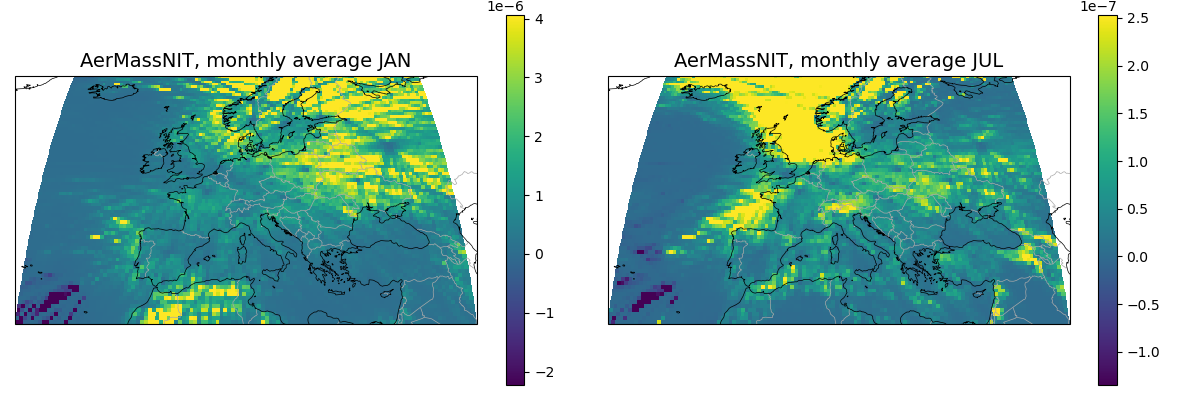
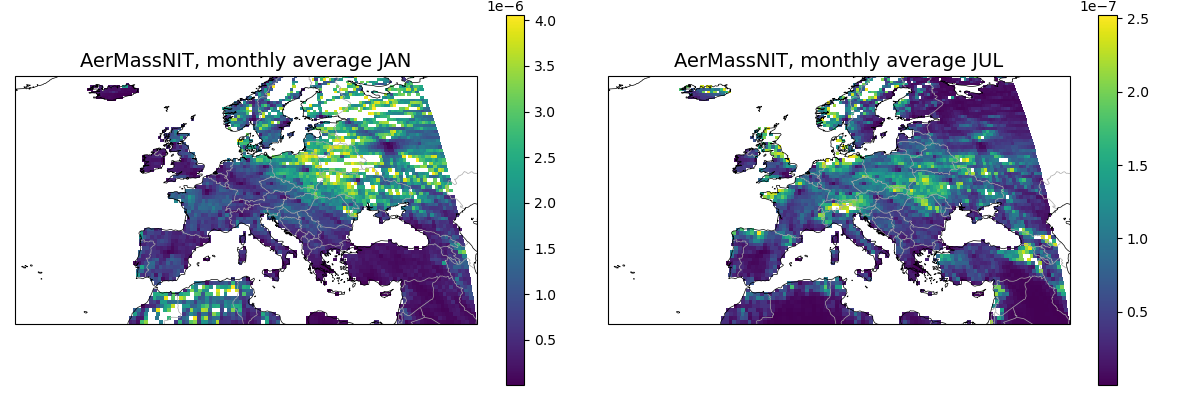
introduce plotting only europe

diff --git a/division_processing/procData.py b/division_processing/procData.py
@@ -8,6 +8,55 @@ import numpy as np
 from utils import *
 from sklearn.preprocessing import StandardScaler
 import time
+from cartopy.io.shapereader import natural_earth
+import shapely.geometry as sgeom
+import cartopy.io.shapereader as shpreader
+import cartopy.io.shapereader as shpreader
+import shapely.geometry as sgeom
+from shapely.prepared import prep
+import numpy as np
+import numpy as np
+import matplotlib.pyplot as plt
+import cartopy.crs as ccrs
+import cartopy.feature as cfeature
+import cartopy.io.shapereader as shpreader
+import shapely.geometry as sgeom
+from shapely.prepared import prep
+
+# ----------------------------------------------------
+# 1. Prepare the land mask using Cartopy + Shapely
+# ----------------------------------------------------
+
+# Load natural earth land shapefile
+shpfilename = shpreader.natural_earth(resolution='10m', category='physical', name='land')
+reader = shpreader.Reader(shpfilename)
+geoms = reader.geometries()
+
+# Flatten MultiPolygons into list of Polygons
+polygons = []
+for geom in geoms:
+    if isinstance(geom, sgeom.MultiPolygon):
+        polygons.extend(geom.geoms)
+    else:
+        polygons.append(geom)
+
+# Create a MultiPolygon and prepare it for fast masking
+land_geom = sgeom.MultiPolygon(polygons)
+prep_land = prep(land_geom)
+
+# ----------------------------------------------------
+# 2. Function to mask ocean values from a DataArray
+# ----------------------------------------------------
+
+def mask_ocean(dataarray):
+    lons, lats = np.meshgrid(dataarray['lon'], dataarray['lat'])
+    points = np.vstack([lons.ravel(), lats.ravel()]).T
+    mask = np.array([prep_land.contains(sgeom.Point(x, y)) for x, y in points])
+    mask = mask.reshape(lats.shape)
+    return dataarray.where(mask)
+
+
+
 start = time.time()
 months = ['JAN', 'JUL']
 
@@ -46,26 +95,28 @@ for type_, vars in types.items():
         for month in months:
             pollutant = differencer(type_, month, var)
 
-            sum_emittants = adder(emissions, emittants).drop_sel(lat=68.5).drop_isel(lon=-1)
-            # print(sum_emittants.sel(coords= sum_emittants.coords[sum_emittants.coords != (68.5, 48.12)]))
+            sum_emittants = adder(emissions, emittants)
+            
+            # sum_emittants = adder(emissions, emittants).drop_sel(lat=68.5).drop_isel(lon=-1)
 
-            scaler = StandardScaler().fit(pollutant.values)
+            # This code below was not used
+            # scaler = StandardScaler().fit(pollutant.values)
             
-            sum_emittants_scaled = xr.DataArray(
-                                    scaler.transform(sum_emittants.values),
-                                    dims=sum_emittants.dims,
-                                    coords=sum_emittants.coords,
-                                    attrs=sum_emittants.attrs
-                                )
+            # sum_emittants_scaled = xr.DataArray(
+            #                         scaler.transform(sum_emittants.values),
+            #                         dims=sum_emittants.dims,
+            #                         coords=sum_emittants.coords,
+            #                         attrs=sum_emittants.attrs
+            #                     )
             
-            pollutant_scaled = xr.DataArray(
-                scaler.transform(pollutant.values),
-                dims=pollutant.dims,
-                coords=pollutant.coords,
-                attrs=pollutant.attrs
-            )
+            # pollutant_scaled = xr.DataArray(
+            #     scaler.transform(pollutant.values),
+            #     dims=pollutant.dims,
+            #     coords=pollutant.coords,
+            #     attrs=pollutant.attrs
+            # )
             #print(pollutant)
-            measure = (pollutant) / sum_emittants    
+            measure = (pollutant)  / sum_emittants    
             
             median = np.median(measure.values)        
             q1 = np.percentile(measure.values, 25)
@@ -83,31 +134,33 @@ for type_, vars in types.items():
             
             measure = measure.where(
                 (measure >= lower_bound),
-                lower_bound
+                np.nan
             )   
             measure = measure.where(
                 (measure <= upper_bound),
-                upper_bound
+                np.nan
             )
                  
-            measures.append(measure)
+            measures.append(np.log1p(np.abs(measure)))
 
         
         for i, month in enumerate(months):
             ax[i].add_feature(cfeature.BORDERS.with_scale('50m'), linewidth=0.5, edgecolor='darkgrey')
             ax[i].coastlines(resolution='50m', linewidth=0.5, color='black')
-            
-            vmin = measures[i].values.min()
-            vmax = measures[i].values.max()
-            
-            # Plot the data for the current time step
-            measures[i].plot(ax=ax[i], transform=ccrs.PlateCarree(), vmin=vmin, vmax=vmax)
 
-            # Add a title with the current time
+            # Mask out ocean values
+            masked_measure = mask_ocean(measures[i])
+
+
+            vmin = np.nanmin(masked_measure.values)
+            vmax = np.nanmax(masked_measure.values)
+
+            masked_measure.plot(ax=ax[i], transform=ccrs.PlateCarree(), vmin=vmin, vmax=vmax)
+
             ax[i].set_title(f"{var}, monthly average {month}", fontsize=14)
             
             plt.savefig(os.path.join(os.path.dirname(__file__), '..', 'division_processing', 'division_figures',f'{type_}_{var}_timeaveraged.png'))
 end = time.time()
-# plt.show()
+plt.show()
 
 print(f"Process run in {end - start} s")

diff --git a/division_processing/hist_outliers.py b/division_processing/hist_outliers.py
@@ -9,6 +9,9 @@ from utils import *
 from sklearn.preprocessing import StandardScaler
 import time
 import seaborn as sns
+from scipy.stats import zscore
+from sklearn.svm import OneClassSVM
+from sklearn.cluster import DBSCAN
 start = time.time()
 
 months = ['JAN', 'JUL']
@@ -28,6 +31,11 @@ types = {
         'SpeciesConc_NO2': ['NO2']
     }
 }
+def modified_z_score(data):
+    median = np.median(data)
+    mad = np.median(np.abs(data - median))
+    return 0.6745 * (data - median) / mad
+
 
 emissions = xr.open_dataset(os.path.join(os.path.dirname(__file__), '..', 'raw_data', 'emissions', 'AvEmMasses.nc4'))
 
@@ -37,51 +45,50 @@ emissions = xr.open_dataset(os.path.join(os.path.dirname(__file__), '..', 'raw_d
 for type_, vars in types.items():
     # Iterate through the emittants of each pollutant
     for var, emittants in vars.items():
-        # fig, ax = plt.subplots(1, 1, figsize=[12, 4])
+        fig, axs = plt.subplots(1, 2, figsize=[12, 4])
         plt.tight_layout()
         measures = []
         
         for month in months:
             pollutant = differencer(type_, month, var)
 
-            sum_emittants = adder(emissions, emittants).drop_sel(lat=68.5).drop_isel(lon=-1)
-
-            scaler = StandardScaler().fit(pollutant.values)
+            sum_emittants = adder(emissions, emittants)
             
-            sum_emittants_scaled = xr.DataArray(
-                                    scaler.transform(sum_emittants.values),
-                                    dims=sum_emittants.dims,
-                                    coords=sum_emittants.coords,
-                                    attrs=sum_emittants.attrs
-                                )
-            
-            pollutant_scaled = xr.DataArray(
-                scaler.transform(pollutant.values),
-                dims=pollutant.dims,
-                coords=pollutant.coords,
-                attrs=pollutant.attrs
-            )
-            
-            measure = (pollutant) / sum_emittants    
-        
-            # Old code
-            # measure = measure.where(
-            #     (measure >= lower_bound) & (measure <= upper_bound),
-            #     median
-            # )
-        
+            measure = pollutant/ (sum_emittants)     
+            print(f'Minimum emittants {pollutant.min()} max emittants {pollutant.max()}')
             measures.append(measure)
+            print(pollutant.coords)
+            
 
         
         for i, month in enumerate(months):
-        
+            data = (measures[i].values.flatten())
             
-            # Plot the data for the current time step
-            sns.boxplot(x= measures[i].values.flatten())
-            # Add a title with the current time
-            # ax.set_title(f"{var}, monthly average {month}", fontsize=14)
-            plt.show()
-            # plt.savefig(os.path.join(os.path.dirname(__file__), '..', 'division_processing', 'division_figures',f'{type_}_{var}_timeaveraged.png'))
+            # # Calculate Q1 (25th percentile) and Q3 (75th percentile)
+            # Q1 = np.percentile(data, 25)
+            # Q3 = np.percentile(data, 75)
+
+            # # Calculate the interquartile range (IQR)
+            # IQR = Q3 - Q1
+            
+            # # Calculate the lower and upper bounds for outliers
+            # lower_bound = Q1 - 25 * IQR
+            # upper_bound = Q3 + 25 * IQR
+
+            # # Identify outliers (values outside the whiskers)
+            # outliers = data[(data < lower_bound) | (data > upper_bound)]
+
+            # # Count outliers
+            # num_outliers = len(outliers)
+            
+            # print(f"Number of outliers: {num_outliers}, data length {len(data)}")
+            # sns.boxplot(data, ax=axs[i])
+            axs[i].hist(data)
+            
+            
+            
+plt.show()   
+            
 end = time.time()
 
 
